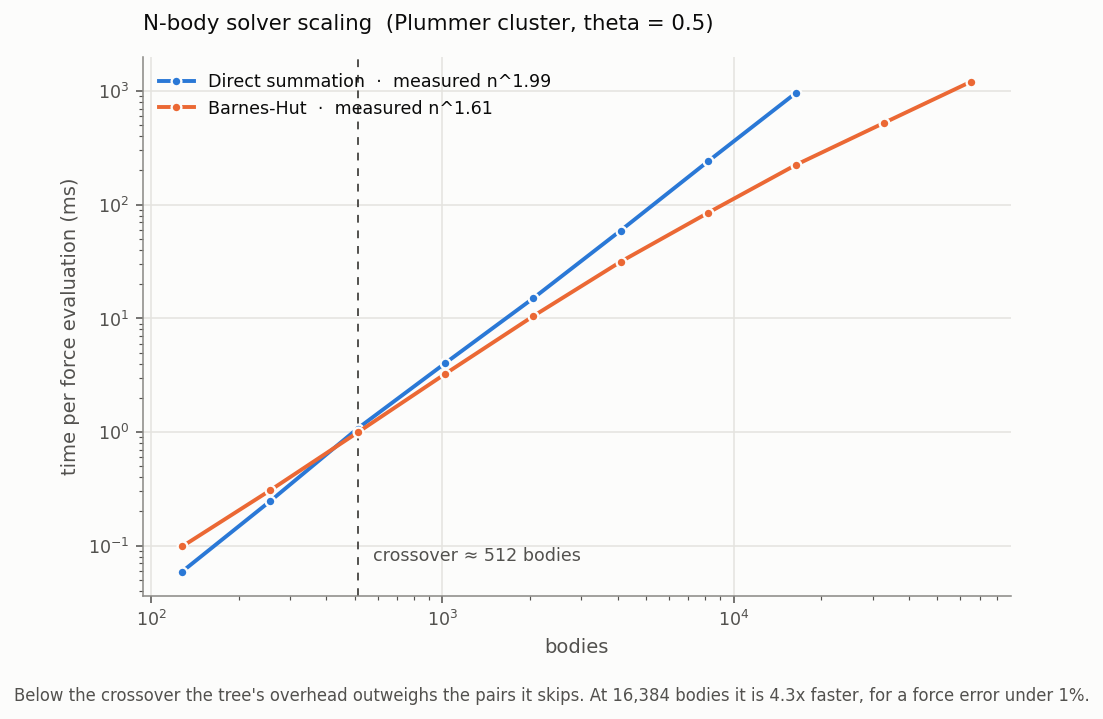
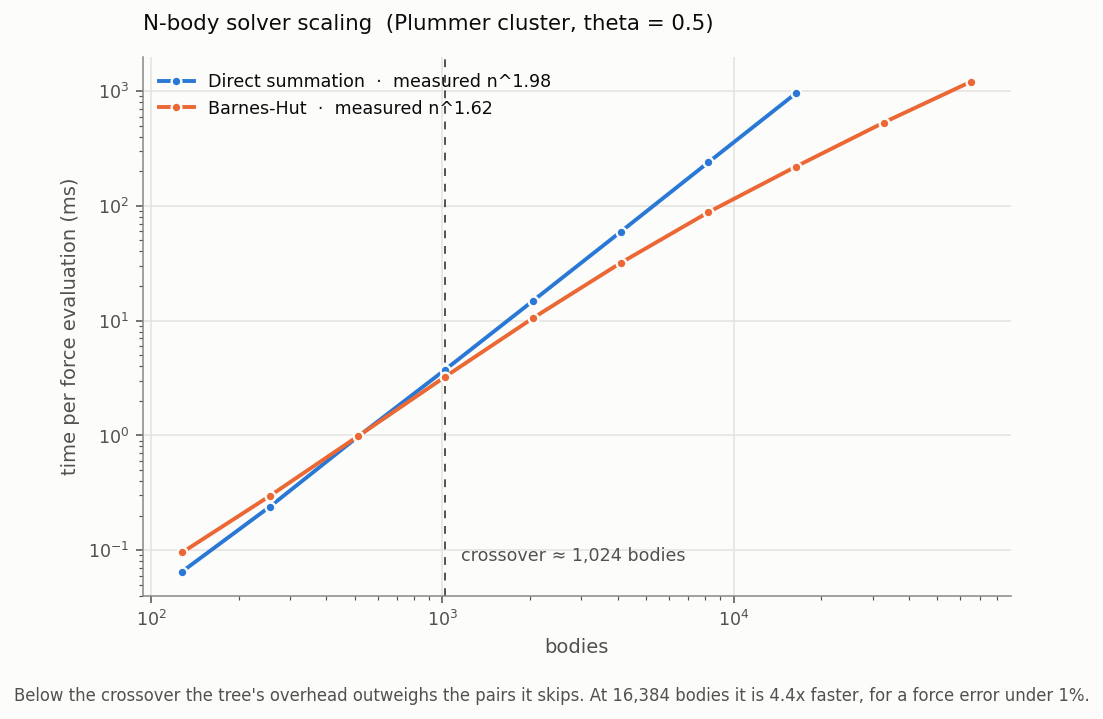
measure thread scaling, add a ThreadSanitizer CI job
Speedup is near-linear to 8 threads (6.6x) then flat: this machine has 8 performance cores and 4 efficiency cores. The gap below ideal before the plateau is serial tree construction (Amdahl caps 8 threads at 7.5x) plus memory contention across cores sharing one node array.

The complexity sweeps stay single-threaded so the exponents measure algorithms rather than the scheduler.

diff --git a/validation/plot_benchmark.py b/validation/plot_benchmark.py
@@ -13,7 +13,8 @@ import pathlib
 import matplotlib
 import numpy as np
 
-from validation.make_figures import INK, INK_SECONDARY, SURFACE, _save, _style
+from validation.make_figures import (INK, INK_MUTED, INK_SECONDARY, SURFACE,
+                                     _save, _style)
 
 RESULTS = pathlib.Path(__file__).resolve().parent.parent / "benchmarks" / "results.csv"
 
@@ -23,13 +24,24 @@ LABELS = {"direct": "Direct summation", "barnes-hut": "Barnes-Hut"}
 
 def load(path):
     series = {}
+    threads = {"n": [], "ms": []}
     with open(path) as f:
         for row in csv.DictReader(f):
+            if row["solver"] == "barnes-hut-threads":
+                # For these rows the last column is thread count, not error.
+                threads["n"].append(int(row["force_error"]))
+                threads["ms"].append(float(row["seconds"]) * 1e3)
+                continue
             entry = series.setdefault(row["solver"], {"n": [], "ms": []})
             entry["n"].append(int(row["bodies"]))
             entry["ms"].append(float(row["seconds"]) * 1e3)
-    return {k: {"n": np.array(v["n"]), "ms": np.array(v["ms"])}
-            for k, v in series.items()}
+
+    out = {k: {"n": np.array(v["n"]), "ms": np.array(v["ms"])}
+           for k, v in series.items()}
+    if threads["n"]:
+        out["threads"] = {"n": np.array(threads["n"]),
+                          "ms": np.array(threads["ms"])}
+    return out
 
 
 def exponent(n, ms):
@@ -105,8 +117,47 @@ def main():
 
     _save(fig, "nbody_scaling.png")
 
+    if "threads" in series:
+        thread_figure(series["threads"])
+
     if args.show:
         plt.show()
+
+
+def thread_figure(data):
+    import matplotlib.pyplot as plt
+
+    counts, ms = data["n"], data["ms"]
+    speedup = ms[0] / ms
+
+    fig, ax = plt.subplots(figsize=(7.2, 4.6))
+
+    ax.plot(counts, counts, color=INK_MUTED, linewidth=1.5,
+            linestyle=(0, (4, 4)), zorder=2, label="perfect scaling")
+    ax.plot(counts, speedup, color="#eb6834", linewidth=2, marker="o",
+            markersize=5, markeredgecolor=SURFACE, markeredgewidth=1.2,
+            zorder=3, label="measured")
+
+    ax.set_xlabel("worker threads")
+    ax.set_ylabel("speedup vs. single-threaded")
+    ax.set_title("Barnes-Hut force loop, thread scaling  (16,384 bodies)",
+                 fontsize=11, pad=14, loc="left")
+    ax.grid(zorder=0)
+    ax.set_axisbelow(True)
+    ax.set_xticks(counts)
+
+    legend = ax.legend(frameon=False, loc="upper left", fontsize=9)
+    for text in legend.get_texts():
+        text.set_color(INK)
+
+    best = speedup.max()
+    fig.text(0.01, -0.05,
+             f"Peaks at {best:.1f}x. The plateau past 8 threads is the hardware: "
+             f"this machine has 8 performance cores and 4 efficiency cores, and "
+             f"the efficiency cores add almost nothing.",
+             fontsize=8.5, color=INK_SECONDARY)
+
+    _save(fig, "thread_scaling.png")
 
 
 if __name__ == "__main__":

diff --git a/benchmarks/nbody_bench.cpp b/benchmarks/nbody_bench.cpp
@@ -15,6 +15,7 @@
 
 #include "core/BarnesHut.h"
 #include "core/ForceModel.h"
+#include "core/Parallel.h"
 #include "core/Scenarios.h"
 #include "core/System.h"
 
@@ -30,6 +31,10 @@ const std::vector<std::size_t> kTreeSizes = {
 // Repeat until this much time has elapsed, so small runs aren't dominated by
 // clock resolution.
 constexpr double kMinSeconds = 0.15;
+
+// Fixed size for the thread-scaling sweep: large enough that per-body work
+// dominates thread startup, small enough to sweep quickly.
+constexpr std::size_t kScalingSize = 16384;
 
 struct Timing {
   double seconds_per_eval = 0.0;
@@ -72,9 +77,13 @@ double forceError(const std::vector<glm::dvec3>& approx,
 
 int main() {
   const double softening = core::scenarios::kClusterSoftening;
-  const core::NBodyGravity direct(1.0, softening);
-  const core::BarnesHutGravity tree(1.0, 0.5, softening);
+  // Serial for the complexity sweeps: threading would fold scheduling into the
+  // measured exponents. The thread scaling is measured separately below.
+  const core::NBodyGravity direct(1.0, softening, 1);
+  const core::BarnesHutGravity tree(1.0, 0.5, softening, 1);
 
+  // Last column is force_error for the solver rows and thread count for the
+  // barnes-hut-threads rows.
   std::printf("solver,bodies,seconds,repetitions,force_error\n");
   std::fflush(stdout);
 
@@ -116,6 +125,25 @@ int main() {
     std::fprintf(stderr, "  tree     n=%-6zu %8.3f ms   force error %s\n", n,
                  t.seconds_per_eval * 1e3,
                  error_field.empty() ? "n/a" : error_field.c_str());
+  }
+
+  // Thread scaling at a fixed size, so the only variable is worker count.
+  std::fprintf(stderr, "\n  scaling at %zu bodies:\n", kScalingSize);
+  const core::System scaling_system = core::scenarios::cluster(kScalingSize);
+  double serial_seconds = 0.0;
+
+  for (unsigned t : {1u, 2u, 4u, 6u, 8u, 10u, 12u}) {
+    if (t > core::hardwareThreads()) break;
+    const core::BarnesHutGravity model(1.0, 0.5, softening, t);
+    const Timing timing = time(model, scaling_system);
+    if (t == 1) serial_seconds = timing.seconds_per_eval;
+
+    std::printf("barnes-hut-threads,%zu,%.9g,%d,%u\n", kScalingSize,
+                timing.seconds_per_eval, timing.repetitions, t);
+    std::fflush(stdout);
+    std::fprintf(stderr, "  %2u thread%s %8.2f ms   %.2fx\n", t,
+                 t == 1 ? " " : "s", timing.seconds_per_eval * 1e3,
+                 serial_seconds / timing.seconds_per_eval);
   }
 
   return 0;

diff --git a/README.md b/README.md
@@ -34,6 +34,7 @@ convergence, an analytic rate, or a second implementation.
 | The C++ engine matches the Python one | Same scenario, same timestep, 730 steps | agree to **7.4e-14 AU** |
 | J2 perturbs orbits correctly | Propagated nodal precession vs. analytic secular rate | **0.06%** apart |
 | The Barnes-Hut tree is correct | At θ=0 it must reduce to exact pairwise summation | agree to **8.6e-16** |
+| Threading the force loop changes nothing | Bitwise comparison, 1 to 12 threads | **bit-identical**, and clean under TSan |
 | Sun-synchronous orbits fall out of the physics | Inclination that precesses once per year | **98.2°**, derived not assumed |
 
 That last one is the point of the whole exercise. A sun-synchronous orbit holds
@@ -117,6 +118,15 @@ the runtime and time per node visit is flat, but nodes visited per body grow as
 and a Plummer sphere is strongly centrally concentrated: a body in the dense
 core has many neighbours close enough to fail the opening criterion. The
 asymptotic bound is a claim about the input as much as the algorithm.
+
+![Thread scaling](figures/thread_scaling.png)
+
+The force loop is parallelised with `std::thread`. The tree is read-only once
+built and each body writes only its own slot, so no synchronisation is needed —
+and results are *bit-identical* at any thread count, which the test suite checks
+as exact equality rather than a tolerance. Speedup peaks at **6.6×**; the
+plateau past 8 threads is the hardware, since this machine has 8 performance
+cores and 4 efficiency cores.
 [`benchmarks/README.md`](benchmarks/README.md) has the measurements.
 
 ### `orbital` — integrator comparison

diff --git a/benchmarks/README.md b/benchmarks/README.md
@@ -19,6 +19,7 @@ and the crossover point are the parts that transfer.
 | Barnes-Hut (θ=0.5) | n^1.61 over the same range, n^1.27 over the largest four sizes |
 | Crossover | ~512 bodies |
 | Speedup at 16,384 bodies | 4.3×, for 0.3% force error |
+| Thread scaling at 16,384 bodies | 6.6× at 8 threads, flat beyond |
 
 ## Why Barnes-Hut isn't n^1.1 here
 
@@ -48,3 +49,29 @@ asymptotic bound is a claim about the input as much as the algorithm.
 
 θ is the lever if speed matters more than accuracy: θ=1.0 opens far fewer cells,
 at ~4.5% force error instead of ~0.8%.
+
+## Thread scaling
+
+The complexity sweeps above run single-threaded, so the exponents measure the
+algorithms rather than the scheduler. Threading is measured separately at a
+fixed 16,384 bodies:
+
+| threads | ms/eval | speedup |
+|---|---|---|
+| 1 | 216.3 | 1.00× |
+| 2 | 119.8 | 1.81× |
+| 4 | 59.8 | 3.62× |
+| 6 | 40.9 | 5.29× |
+| 8 | 32.9 | 6.58× |
+| 10 | 34.8 | 6.21× |
+| 12 | 32.8 | 6.59× |
+
+Near-linear to 8, then flat. The M2 Pro has 8 performance cores and 4 efficiency
+cores; the efficiency cores are roughly a third the throughput and contribute
+almost nothing once the fast cores are saturated.
+
+The shortfall below the ideal line before the plateau has two parts. Tree
+construction stays serial at ~1% of runtime, which by Amdahl's law caps speedup
+at 7.5× on 8 threads — so about half the gap from the ideal 8×. The rest is
+memory: the traversal is pointer-chasing through a 97k-node array, and eight
+cores contend for the same cache and bandwidth.

diff --git a/BUILDING.md b/BUILDING.md
@@ -123,6 +123,16 @@ UndefinedBehaviorSanitizer catches signed overflow, bad shifts, and null
 dereferences. Both cost roughly 2x runtime, which is why they're a separate
 build directory rather than always on.
 
+ThreadSanitizer is a separate build again — it can't be combined with ASan —
+and is what checks the parallel force loop for races:
+
+```bash
+cmake -S . -B build-tsan -DBUILD_SCENES=OFF -DCMAKE_BUILD_TYPE=Debug \
+  -DCMAKE_CXX_FLAGS="-fsanitize=thread -g" \
+  -DCMAKE_EXE_LINKER_FLAGS="-fsanitize=thread"
+cmake --build build-tsan -j8 && ./build-tsan/core_tests
+```
+
 The payoff over a plain debugger is that you get the offending line directly.
 A raw segfault gives you `exit code 139` and nothing else — worse, because
 stdout is block-buffered, a crash usually swallows all the output printed
